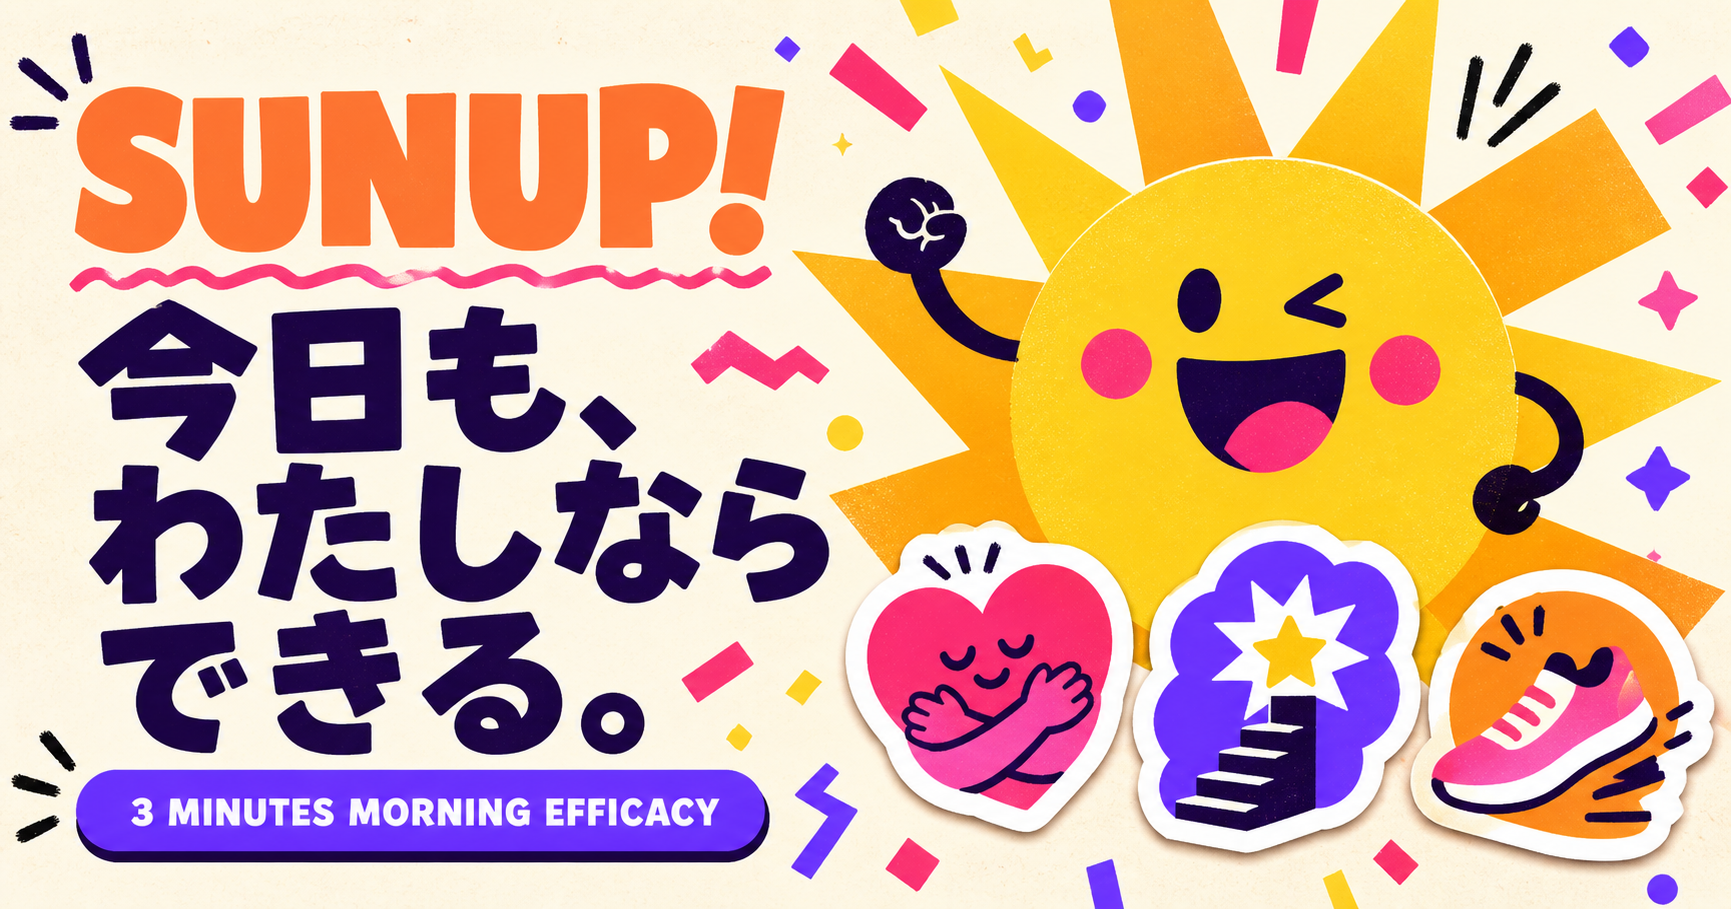
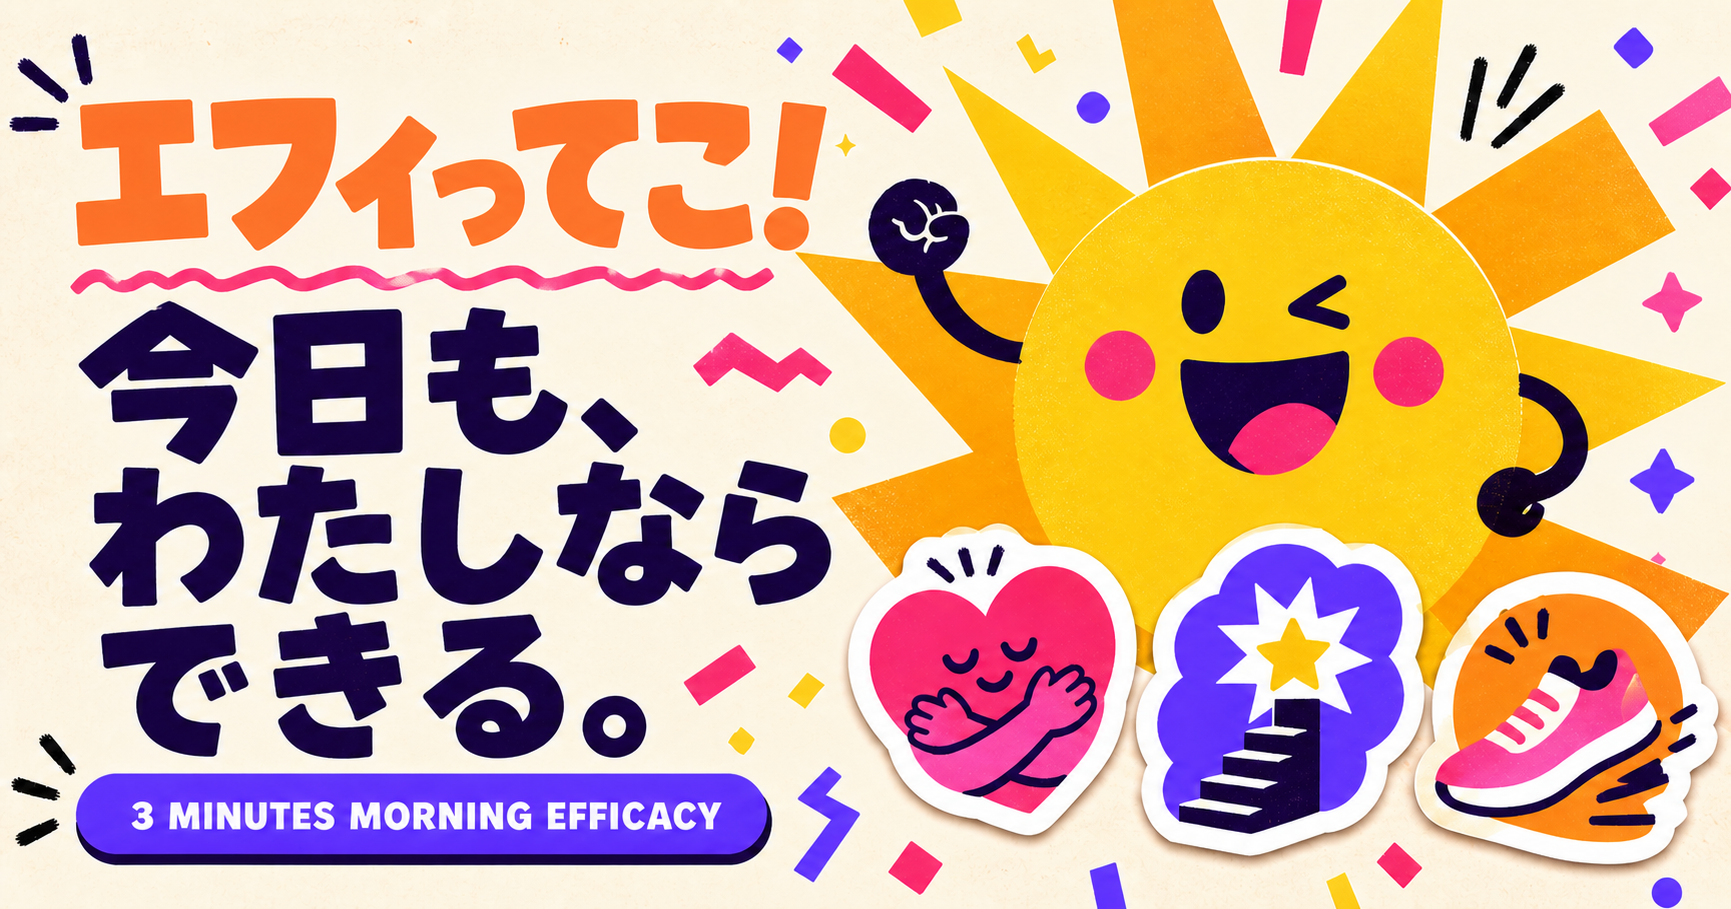
Rename service to エフィってこ！ and add Cloudflare deployment

diff --git a/app/page.tsx b/app/page.tsx
@@ -245,7 +245,7 @@ export default function Home() {
 
     ctx.fillStyle = "#24154f";
     ctx.font = "900 46px Arial, 'Hiragino Sans', sans-serif";
-    ctx.fillText("SUNUP!", 76, 102);
+    ctx.fillText("エフィってこ！", 76, 102);
     ctx.font = "700 28px Arial, 'Hiragino Sans', sans-serif";
     ctx.fillText(`${dateLabel}  •  MY MORNING EFFICACY`, 76, 150);
 
@@ -287,7 +287,7 @@ export default function Home() {
 
     ctx.fillStyle = "#24154f";
     ctx.font = "800 26px Arial, 'Hiragino Sans', sans-serif";
-    ctx.fillText("#朝のエフィカシー  #SUNUP", 76, 1290);
+    ctx.fillText("#朝のエフィカシー  #エフィってこ", 76, 1290);
 
     return new Promise<Blob | null>((resolve) => canvas.toBlob(resolve, "image/png"));
   };
@@ -298,7 +298,7 @@ export default function Home() {
     const url = URL.createObjectURL(blob);
     const link = document.createElement("a");
     link.href = url;
-    link.download = `sunup-${new Date().toISOString().slice(0, 10)}.png`;
+    link.download = `efittekoi-${new Date().toISOString().slice(0, 10)}.png`;
     link.click();
     URL.revokeObjectURL(url);
     setShareStatus("シェア画像を保存したで！");
@@ -307,13 +307,13 @@ export default function Home() {
   const shareImage = async () => {
     const blob = await createShareImage();
     if (!blob) return;
-    const file = new File([blob], "sunup-morning.png", { type: "image/png" });
+    const file = new File([blob], "efittekoi-morning.png", { type: "image/png" });
     if (navigator.share && navigator.canShare?.({ files: [file] })) {
       try {
         await navigator.share({
           files: [file],
           title: "今日の朝エフィカシー",
-          text: "今日も、わたしならできる。 #朝のエフィカシー #SUNUP",
+          text: "今日も、わたしならできる。 #朝のエフィカシー #エフィってこ",
         });
         setShareStatus("シェアの準備、ばっちり！");
       } catch {
@@ -335,7 +335,7 @@ export default function Home() {
       <header className="topbar">
         <button className="brand" type="button" onClick={() => setScreen("welcome")} aria-label="トップへ戻る">
           <span className="brand-sun" aria-hidden="true"><span /></span>
-          <span>SUNUP!</span>
+          <span>エフィってこ！</span>
         </button>
         <div className="today-chip">
           <span className="today-dot" aria-hidden="true" />
@@ -484,7 +484,7 @@ export default function Home() {
 
           <div className="share-card" id="share-card">
             <div className="share-card-top">
-              <div><span>SUNUP!</span><small>MY MORNING EFFICACY</small></div>
+              <div><span>エフィってこ！</span><small>MY MORNING EFFICACY</small></div>
               <b>{dateLabel}</b>
             </div>
             <h3>TODAY,<br />I BELIEVE <em>IN ME.</em></h3>
@@ -522,7 +522,7 @@ export default function Home() {
         </section>
       )}
 
-      <footer className="site-footer"><span>SUNUP! / SELF EFFICACY TRAINING</span><span>YOU&apos;VE GOT THIS.</span></footer>
+      <footer className="site-footer"><span>エフィってこ！ / SELF EFFICACY TRAINING</span><span>YOU&apos;VE GOT THIS.</span></footer>
     </main>
   );
 }

diff --git a/app/layout.tsx b/app/layout.tsx
@@ -20,7 +20,7 @@ export async function generateMetadata(): Promise<Metadata> {
   const host = requestHeaders.get("x-forwarded-host") ?? requestHeaders.get("host") ?? "localhost:3000";
   const protocol = requestHeaders.get("x-forwarded-proto") ?? (host.startsWith("localhost") ? "http" : "https");
   const metadataBase = new URL(`${protocol}://${host}`);
-  const title = "SUNUP! | 朝のエフィカシートレーニング";
+  const title = "エフィってこ！ | 朝のエフィカシートレーニング";
   const description = "3つの問いで、自分への信頼をチャージ。最高の未来に向かう一歩を、毎朝3分でつくる。";
 
   return {
@@ -31,7 +31,7 @@ export async function generateMetadata(): Promise<Metadata> {
       title,
       description,
       type: "website",
-      images: [{ url: "/og.png", width: 1731, height: 909, alt: "SUNUP! 今日も、わたしならできる。" }],
+      images: [{ url: "/og.png", width: 1731, height: 909, alt: "エフィってこ！ 今日も、わたしならできる。" }],
     },
     twitter: { card: "summary_large_image", title, description, images: ["/og.png"] },
   };

diff --git a/vite.config.ts b/vite.config.ts
@@ -13,7 +13,6 @@ const isCodexSeatbeltSandbox = process.env.CODEX_SANDBOX === "seatbelt";
 
 const localBindingConfig = {
   main: "./worker/index.ts",
-  compatibility_flags: ["nodejs_compat"],
   d1_databases: d1
     ? [
         {

diff --git a/README.md b/README.md
@@ -1,100 +1,32 @@
-# vinext-starter
+# エフィってこ！
 
-A clean full-stack starter running on
-[vinext](https://github.com/cloudflare/vinext), with optional Cloudflare D1 and
-Drizzle support.
+毎朝3分、3つの問いとMBTI別のアドバイスで「自分ならできる」を育てるセルフトレーニングアプリです。
 
-## Prerequisites
+## 主な機能
 
-- Node.js `>=22.13.0`
+- 3つの朝の問いに回答
+- MBTIと今日の行動を加味した、朝・昼・夜の過ごし方アドバイス
+- 自分の回答に合わせた賞賛コメント
+- 結果カードの画像保存・共有
+- MBTIと継続日数を端末内に保存
 
-## Quick Start
+## 開発
+
+Node.js 22.13以上を使用します。
 
 ```bash
-npm install
-npm run dev
-npm run build
+pnpm install
+pnpm dev
+pnpm build
 ```
 
-This starter does not use `wrangler.jsonc`.
+## Cloudflareへデプロイ
 
-## Included Shape
+Cloudflareへログインした後、ビルドとデプロイを実行します。
 
-- edit site code under `app/`
-- `.openai/hosting.json` declares optional Sites D1 and R2 bindings
-- `vite.config.ts` simulates declared bindings for local development
-- `db/schema.ts` starts intentionally empty
-- `examples/d1/` contains an optional D1 example surface
-- `drizzle.config.ts` supports local migration generation when needed
-
-## Workspace Auth Headers
-
-Signed-in visitors receive both `oai-authenticated-user-id` and `oai-authenticated-user-email`. Private Sites require every visitor to sign in; public Sites may also have anonymous visitors, for whom neither header is present.
-
-The user ID is stable for the same user on the same Site and different across Sites. Email and name are intended for display or contact purposes.
-
-SIWC-authenticated workspace sites may also receive
-`oai-authenticated-user-full-name` when the user's SIWC profile has a non-empty
-`name` claim. The full-name value is percent-encoded UTF-8 and is accompanied by
-`oai-authenticated-user-full-name-encoding: percent-encoded-utf-8`.
-
-Treat the full name as optional and fall back to email when it is absent:
-
-```tsx
-import { headers } from "next/headers";
-
-export default async function Home() {
-  const requestHeaders = await headers();
-  const userId = requestHeaders.get("oai-authenticated-user-id");
-  const email = requestHeaders.get("oai-authenticated-user-email");
-  const encodedFullName = requestHeaders.get("oai-authenticated-user-full-name");
-  const fullName =
-    encodedFullName &&
-    requestHeaders.get("oai-authenticated-user-full-name-encoding") ===
-      "percent-encoded-utf-8"
-      ? decodeURIComponent(encodedFullName)
-      : null;
-
-  const displayName = fullName ?? email;
-  // ...
-}
+```bash
+pnpm build
+pnpm exec wrangler deploy
 ```
 
-## Optional Dispatch-Owned ChatGPT Sign-In
-
-Import the ready-to-use helpers from `app/chatgpt-auth.ts` when the site needs
-optional or required ChatGPT sign-in:
-
-- Use `getChatGPTUser()` for optional signed-in UI.
-- Use `requireChatGPTUser(returnTo)` for server-rendered pages that should send
-  anonymous visitors through Sign in with ChatGPT.
-- Use `chatGPTSignInPath(returnTo)` and `chatGPTSignOutPath(returnTo)` for
-  browser links or actions.
-- Pass a same-origin relative `returnTo` path for the destination after sign-in
-  or sign-out. The helper validates and safely encodes it.
-- Mark protected pages with `export const dynamic = "force-dynamic"` because
-  they depend on per-request identity headers.
-
-Dispatch owns `/signin-with-chatgpt`, `/signout-with-chatgpt`, `/callback`, the
-OAuth cookies, and identity header injection. Do not implement app routes for
-those reserved paths. Routes that do not import and call the helper remain
-anonymous-compatible.
-
-SIWC establishes identity only; it does not prove workspace membership. Use the
-Sites hosting platform's access policy controls for workspace-wide restrictions,
-or enforce explicit server-side membership or allowlist checks.
-
-Use SIWC for account pages, user-specific dashboards, saved records, and write
-actions tied to the current ChatGPT user. Leave public content anonymous.
-
-## Useful Commands
-
-- `npm run dev`: start local development
-- `npm run build`: verify the vinext build output
-- `npm test`: build the starter and verify its rendered loading skeleton
-- `npm run db:generate`: generate Drizzle migrations after schema changes
-
-## Learn More
-
-- [vinext Documentation](https://github.com/cloudflare/vinext)
-- [Drizzle D1 Guide](https://orm.drizzle.team/docs/get-started/d1-new)
+アプリは [vinext](https://github.com/cloudflare/vinext) とCloudflare Workersで動作します。
